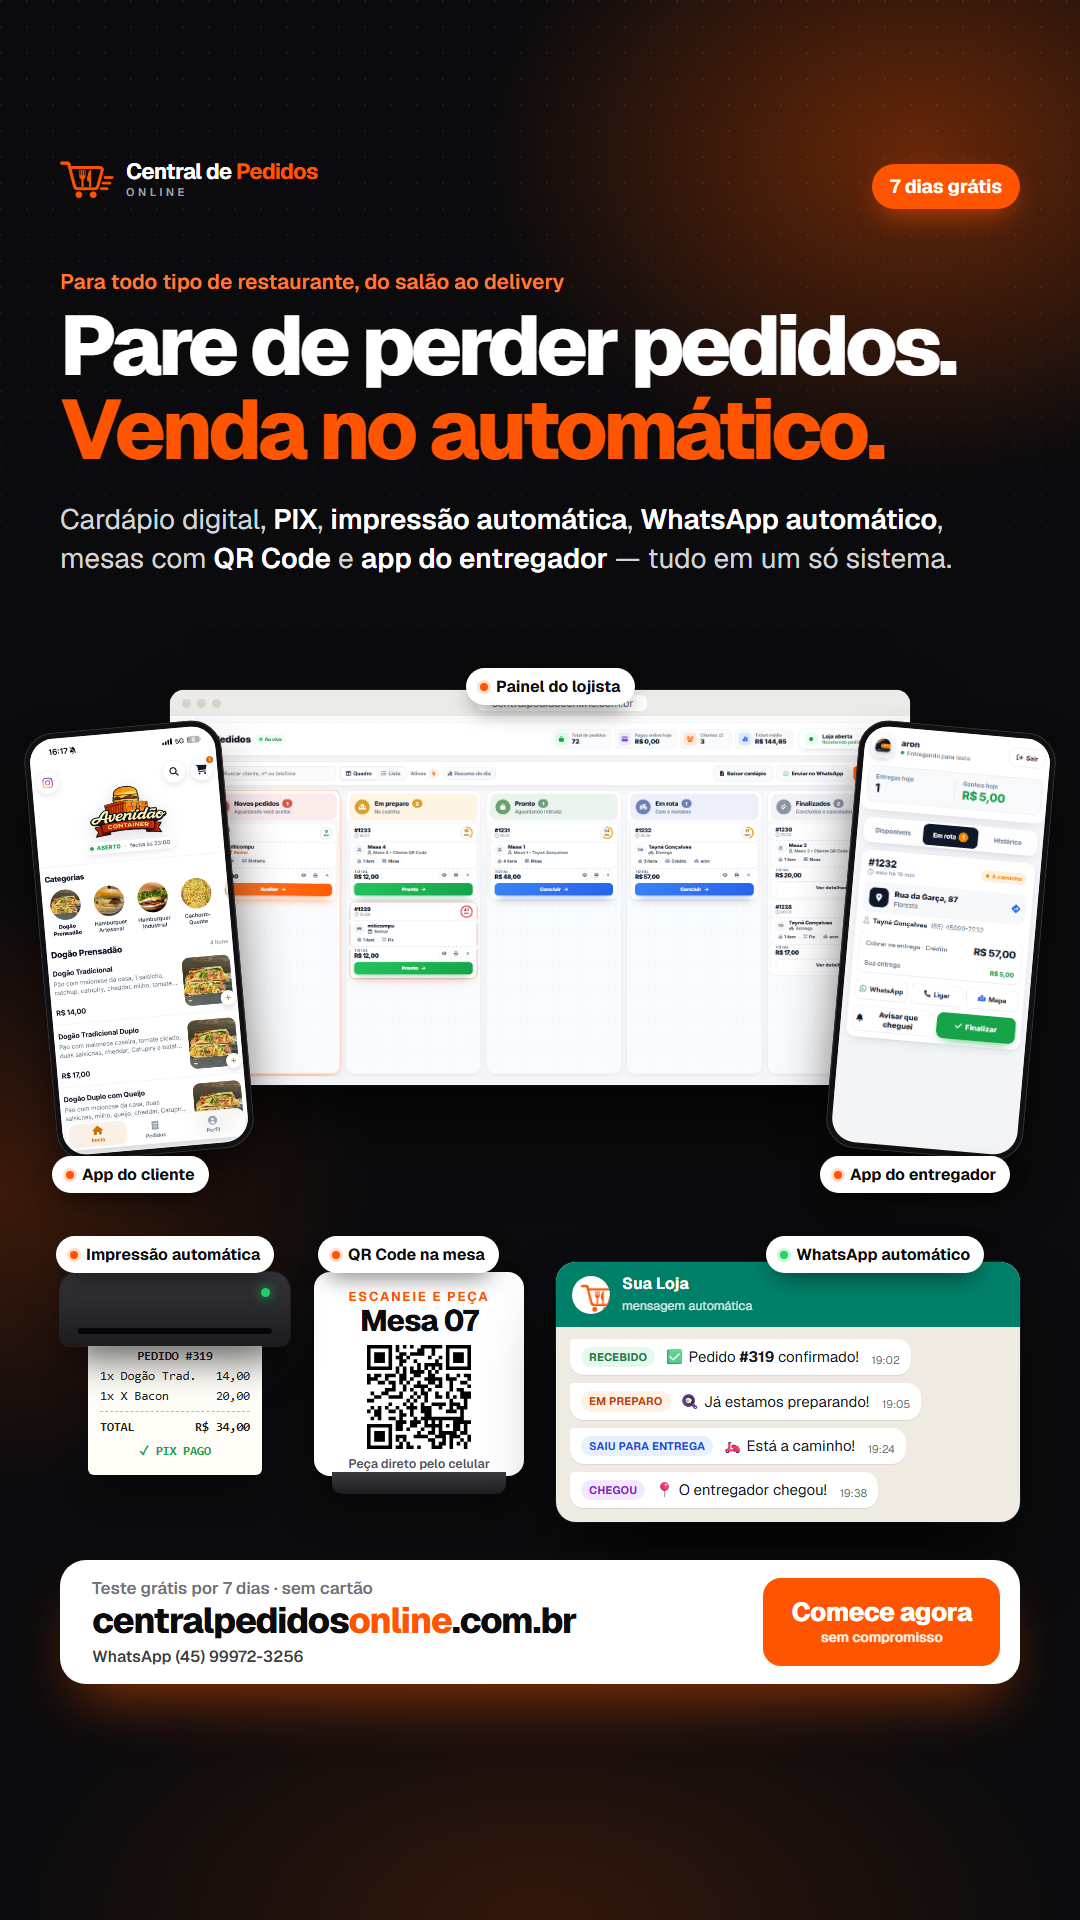
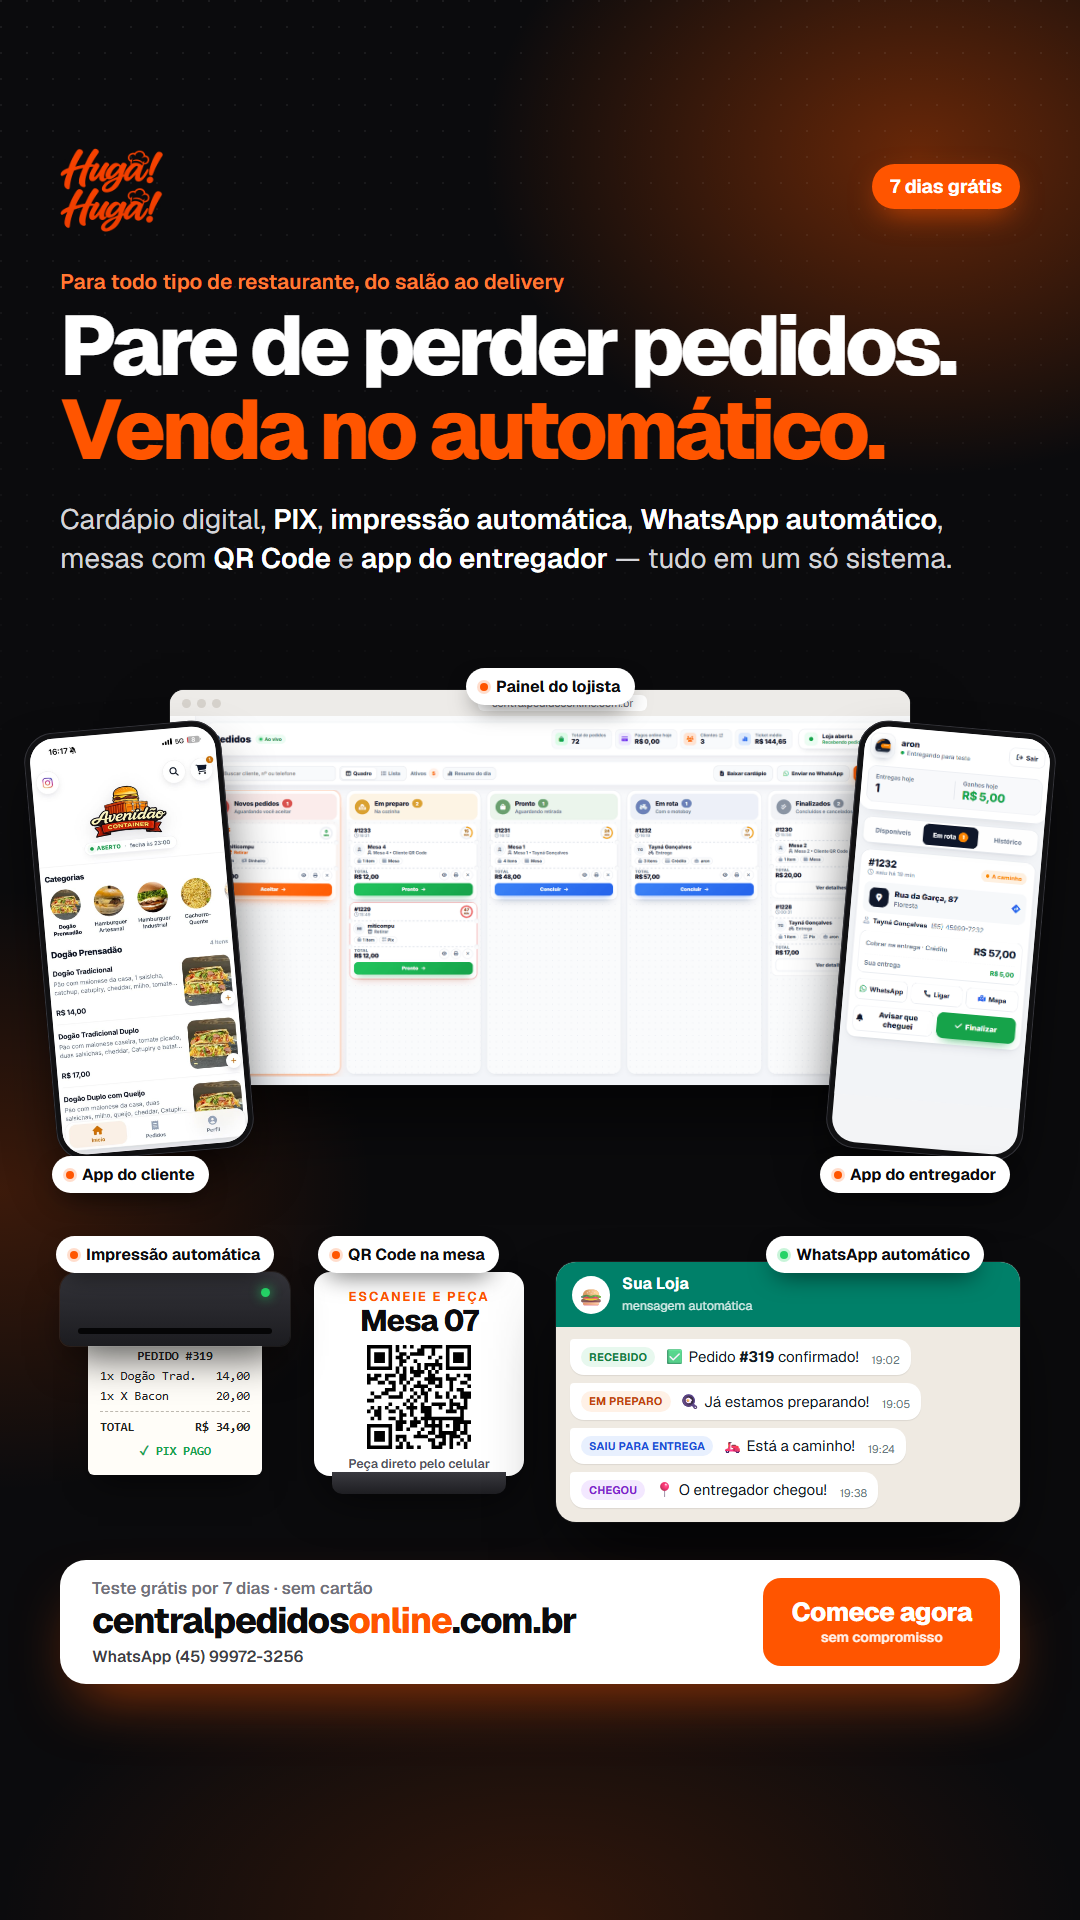
Troca a marca para Huga Huga
Nova logo no menu, rodapé, tela de contratação e favicon; nome trocado
em todo o texto e nos termos. Anúncios e legenda atualizados.

diff --git a/landing/index.html b/landing/index.html
@@ -3,19 +3,19 @@
 <head>
   <meta charset="UTF-8">
   <meta name="viewport" content="width=device-width, initial-scale=1.0">
-  <title>Central de Pedidos Online – Sistema de Pedidos para Restaurantes</title>
+  <title>Huga Huga – Sistema de Pedidos para Restaurantes</title>
   <meta name="description" content="Sistema completo de pedidos online para restaurantes, lanchonetes e delivery. Motoboy, mesas com QR Code, notificações no WhatsApp e muito mais.">
-  <link rel="icon" type="image/png" href="imagens/icon/icon.png">
-  <link rel="apple-touch-icon" href="imagens/icon/icon.png">
+  <link rel="icon" type="image/png" href="imagens/logo/favicon.png">
+  <link rel="apple-touch-icon" href="imagens/logo/favicon.png">
   <meta name="theme-color" content="#FBFBFA">
   <!-- Open Graph / Social -->
   <meta property="og:type" content="website">
   <meta property="og:url" content="https://centralpedidosonline.com.br/">
-  <meta property="og:title" content="Central de Pedidos Online – Sistema de Pedidos para Restaurantes">
+  <meta property="og:title" content="Huga Huga – Sistema de Pedidos para Restaurantes">
   <meta property="og:description" content="Plataforma completa para receber pedidos online com gestão de delivery, mesas com QR Code, controle de motoboys e notificações automáticas no WhatsApp.">
   <meta property="og:image" content="https://centralpedidosonline.com.br/imagens/og-image.png">
   <meta name="twitter:card" content="summary_large_image">
-  <meta name="twitter:title" content="Central de Pedidos Online – Sistema de Pedidos para Restaurantes">
+  <meta name="twitter:title" content="Huga Huga – Sistema de Pedidos para Restaurantes">
   <meta name="twitter:description" content="Plataforma completa para receber pedidos online com gestão de delivery, mesas com QR Code e notificações no WhatsApp.">
   <meta name="twitter:image" content="https://centralpedidosonline.com.br/imagens/og-image.png">
   <link rel="preconnect" href="https://fonts.googleapis.com">
@@ -98,6 +98,9 @@
 
     /* ── Marca ── icon.png é quadrado com margem transparente, então recorta só o carrinho */
     .brand { display: inline-flex; align-items: center; gap: 10px; }
+    .brand-logo { display: block; height: 52px; width: auto; }
+    .foot-brand .brand-logo { height: 76px; }
+    .sign-side .brand-logo { height: 52px; }
     .brand-mark { display: block; width: 44px; height: 30px; overflow: hidden; flex-shrink: 0; }
     .brand-mark img { width: 62px; height: 62px; max-width: none; margin: -14px 0 0 -10px; }
     .brand-name { display: flex; flex-direction: column; font-size: 17px; font-weight: 700; line-height: 1; letter-spacing: -0.03em; white-space: nowrap; }
@@ -589,6 +592,7 @@
       .foot-brand { grid-column: 1 / -1; }
     }
     @media (max-width: 680px) {
+      .brand-logo { height: 44px; }
       .container { padding: 0 16px; }
       .section { padding: 80px 0; }
       .head { margin-bottom: 36px; }
@@ -751,9 +755,8 @@
 <!-- Nav -->
 <header class="nav" id="nav">
   <div class="container nav-in">
-    <a href="#" class="brand" aria-label="Central de Pedidos Online">
-      <span class="brand-mark"><img src="imagens/icon/icon.png" alt=""></span>
-      <span class="brand-name"><span>Central de <span class="brand-c">Pedidos</span></span> <small>Online</small></span>
+    <a href="#" class="brand" aria-label="Huga Huga – página inicial">
+      <img class="brand-logo" src="imagens/logo/hugahuga.png" alt="Huga Huga" width="480" height="392">
     </a>
     <nav aria-label="Principal">
       <ul class="nav-links">
@@ -1247,7 +1250,7 @@
           <b id="cComissao">R$ 3.240</b>
         </div>
         <div class="calc-linha bom">
-          <span>Central de Pedidos <small id="cPlanoNome">Gourmet</small></span>
+          <span>Huga Huga <small id="cPlanoNome">Gourmet</small></span>
           <b id="cNosso">R$ 169,90</b>
         </div>
         <div class="calc-economia">
@@ -1526,9 +1529,8 @@
   <div class="container">
     <div class="foot">
       <div class="foot-brand">
-        <a href="#" class="brand" aria-label="Central de Pedidos Online">
-          <span class="brand-mark"><img src="imagens/icon/icon.png" alt=""></span>
-          <span class="brand-name"><span>Central de <span class="brand-c">Pedidos</span></span> <small>Online</small></span>
+        <a href="#" class="brand" aria-label="Huga Huga – página inicial">
+          <img class="brand-logo" src="imagens/logo/hugahuga.png" alt="Huga Huga" width="480" height="392">
         </a>
         <p>Plataforma completa de pedidos online para restaurantes, lanchonetes e delivery com gestão de mesas, motoboys e WhatsApp.</p>
         <div class="social">
@@ -1564,7 +1566,7 @@
       </div>
     </div>
     <div class="foot-bottom">
-      <span>&copy; 2026 Central de Pedidos Online. Todos os direitos reservados.</span>
+      <span>&copy; 2026 Huga Huga. Todos os direitos reservados.</span>
       <span>Feito para restaurantes que querem crescer.</span>
     </div>
   </div>
@@ -1604,8 +1606,7 @@
 <dialog class="sign" id="sign" aria-labelledby="signTitle">
   <aside class="sign-side">
     <span class="brand">
-      <span class="brand-mark"><img src="imagens/icon/icon.png" alt=""></span>
-      <span class="brand-name"><span>Central de <span class="brand-c">Pedidos</span></span> <small>Online</small></span>
+      <img class="brand-logo" src="imagens/logo/hugahuga.png" alt="Huga Huga" width="480" height="392">
     </span>
     <div class="slides" aria-hidden="true">
       <div class="slide on">
@@ -1729,7 +1730,7 @@
   <div class="modal-head"><h3 id="privacyTitle">Política de Privacidade</h3><button type="button" class="x" data-close aria-label="Fechar"><svg class="i"><use href="#i-x"/></svg></button></div>
   <div class="modal-body">
     <p>Última atualização: maio de 2026</p>
-    <p>A <strong>Central Pedidos Online</strong> valoriza a privacidade dos seus usuários e está comprometida com a proteção dos dados pessoais, em conformidade com a Lei Geral de Proteção de Dados (LGPD – Lei nº 13.709/2018).</p>
+    <p>A <strong>Huga Huga</strong> valoriza a privacidade dos seus usuários e está comprometida com a proteção dos dados pessoais, em conformidade com a Lei Geral de Proteção de Dados (LGPD – Lei nº 13.709/2018).</p>
     <h4>1. Dados que coletamos</h4>
     <ul>
       <li>Nome, nome do estabelecimento, telefone (WhatsApp), e-mail e informações do plano escolhido, fornecidos no formulário de contratação ou teste grátis</li>
@@ -1760,9 +1761,9 @@
   <div class="modal-body">
     <p>Última atualização: janeiro de 2026.</p>
     <h4>1. Aceitação dos Termos</h4>
-    <p>Ao contratar ou utilizar os serviços da <strong>Central Pedidos Online</strong>, você declara ter lido, compreendido e concordado com estes Termos de Uso. Caso não concorde, não utilize a plataforma.</p>
+    <p>Ao contratar ou utilizar os serviços da <strong>Huga Huga</strong>, você declara ter lido, compreendido e concordado com estes Termos de Uso. Caso não concorde, não utilize a plataforma.</p>
     <h4>2. Descrição do Serviço</h4>
-    <p>A Central Pedidos Online disponibiliza uma plataforma SaaS para gerenciamento de pedidos online, delivery, mesas com QR Code, controle de motoboys e notificações via WhatsApp, destinada a restaurantes, lanchonetes e estabelecimentos alimentícios.</p>
+    <p>A Huga Huga disponibiliza uma plataforma SaaS para gerenciamento de pedidos online, delivery, mesas com QR Code, controle de motoboys e notificações via WhatsApp, destinada a restaurantes, lanchonetes e estabelecimentos alimentícios.</p>
     <h4>3. Cadastro e Responsabilidades</h4>
     <p>O contratante é responsável pela veracidade das informações cadastradas e pelo uso correto da plataforma. É vedado utilizar o sistema para fins ilegais, fraudulentos ou que violem direitos de terceiros.</p>
     <h4>4. Período de Teste</h4>
@@ -1771,9 +1772,9 @@
     <p>Os valores e condições de pagamento são definidos conforme o plano contratado. <strong>Plano mensal:</strong> o cancelamento pode ser solicitado a qualquer momento pelo WhatsApp ou canal de atendimento, sem multa contratual, e o acesso segue até o fim do mês já pago.</p>
     <p><strong>Plano anual:</strong> o pagamento é feito à vista, no cartão de crédito, PIX ou boleto. Você pode cancelar em até 7 dias após o pagamento e recebe o reembolso integral. Após esse prazo, o cancelamento pode ser feito a qualquer momento, e devolvemos o valor proporcional aos meses não utilizados, descontando os meses já usados pelo valor do plano mensal. O reembolso é feito em até 30 dias, pela mesma forma de pagamento.</p>
     <h4>6. Propriedade Intelectual</h4>
-    <p>Todos os direitos sobre a plataforma, marca, design e código-fonte pertencem à Central Pedidos Online. É proibida a reprodução, cópia ou redistribuição sem autorização expressa.</p>
+    <p>Todos os direitos sobre a plataforma, marca, design e código-fonte pertencem à Huga Huga. É proibida a reprodução, cópia ou redistribuição sem autorização expressa.</p>
     <h4>7. Limitação de Responsabilidade</h4>
-    <p>A Central Pedidos Online não se responsabiliza por falhas de conexão à internet, interrupções por manutenção programada ou danos indiretos decorrentes do uso da plataforma.</p>
+    <p>A Huga Huga não se responsabiliza por falhas de conexão à internet, interrupções por manutenção programada ou danos indiretos decorrentes do uso da plataforma.</p>
     <h4>8. Alterações nos Termos</h4>
     <p>Reservamos o direito de alterar estes Termos a qualquer momento, mediante comunicação prévia via WhatsApp ou e-mail cadastrado.</p>
     <h4>9. Contato</h4>
@@ -1785,9 +1786,9 @@
 <dialog class="modal" id="lgpdModal" aria-labelledby="lgpdTitle">
   <div class="modal-head"><h3 id="lgpdTitle">LGPD – Lei Geral de Proteção de Dados</h3><button type="button" class="x" data-close aria-label="Fechar"><svg class="i"><use href="#i-x"/></svg></button></div>
   <div class="modal-body">
-    <p>A Central Pedidos Online está comprometida com a privacidade e a proteção dos dados pessoais dos seus usuários, em conformidade com a <strong>Lei nº 13.709/2018 (LGPD)</strong>.</p>
+    <p>A Huga Huga está comprometida com a privacidade e a proteção dos dados pessoais dos seus usuários, em conformidade com a <strong>Lei nº 13.709/2018 (LGPD)</strong>.</p>
     <h4>1. Controlador dos Dados</h4>
-    <p><strong>Central Pedidos Online</strong> é a empresa responsável pelo tratamento dos dados pessoais coletados por meio da plataforma. Contato: WhatsApp <strong>(45) 99972-3256</strong>.</p>
+    <p><strong>Huga Huga</strong> é a empresa responsável pelo tratamento dos dados pessoais coletados por meio da plataforma. Contato: WhatsApp <strong>(45) 99972-3256</strong>.</p>
     <h4>2. Dados Coletados</h4>
     <p>Coletamos apenas os dados necessários para a prestação do serviço, como: nome do estabelecimento, dados de contato, dados dos pedidos realizados e informações de acesso à plataforma.</p>
     <h4>3. Finalidade do Tratamento</h4>
